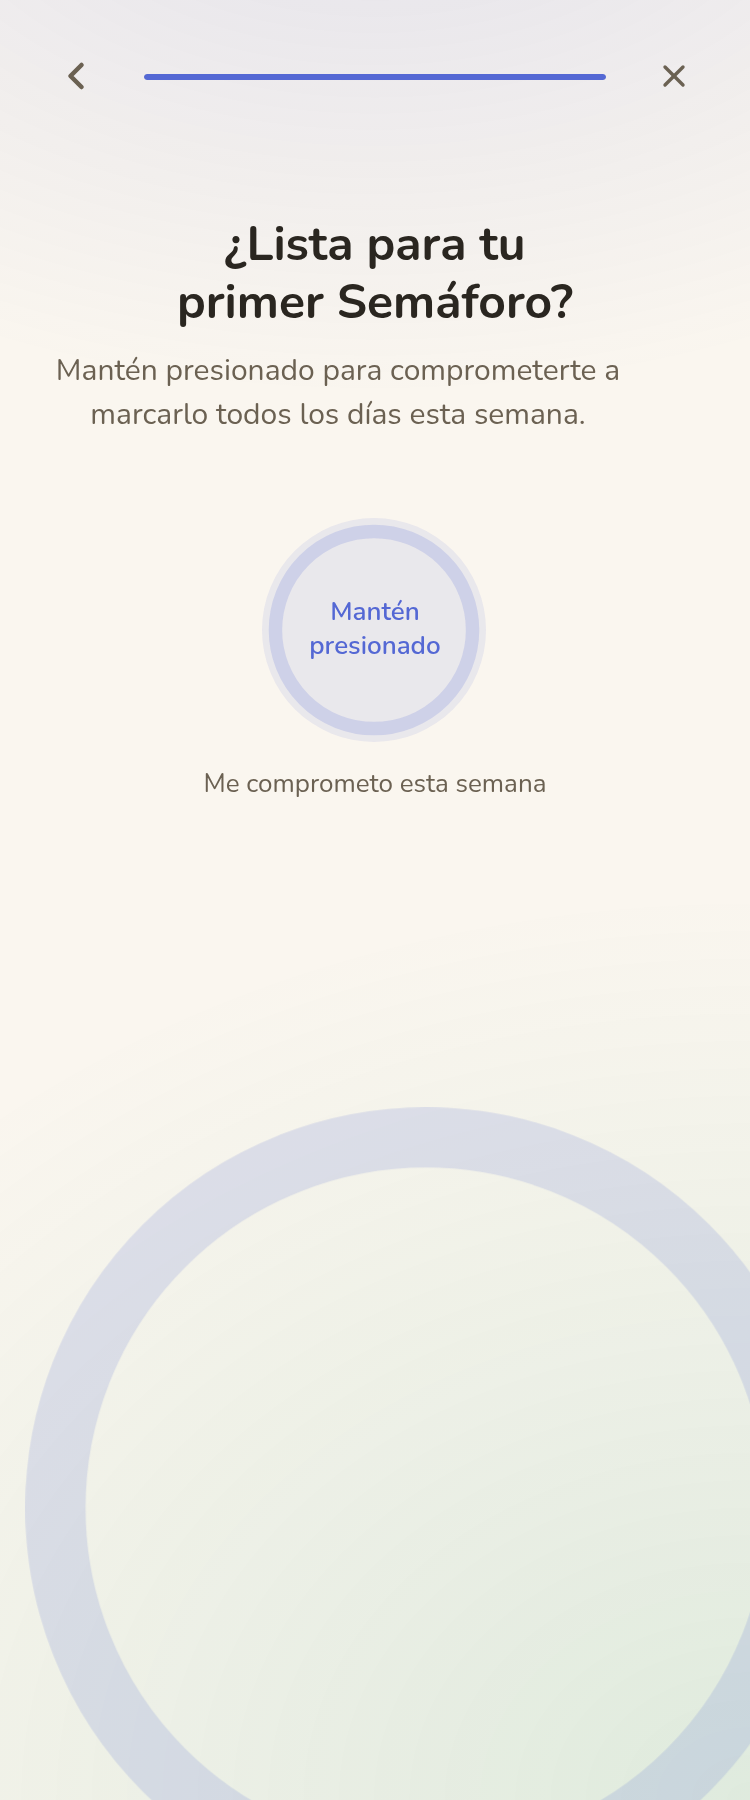
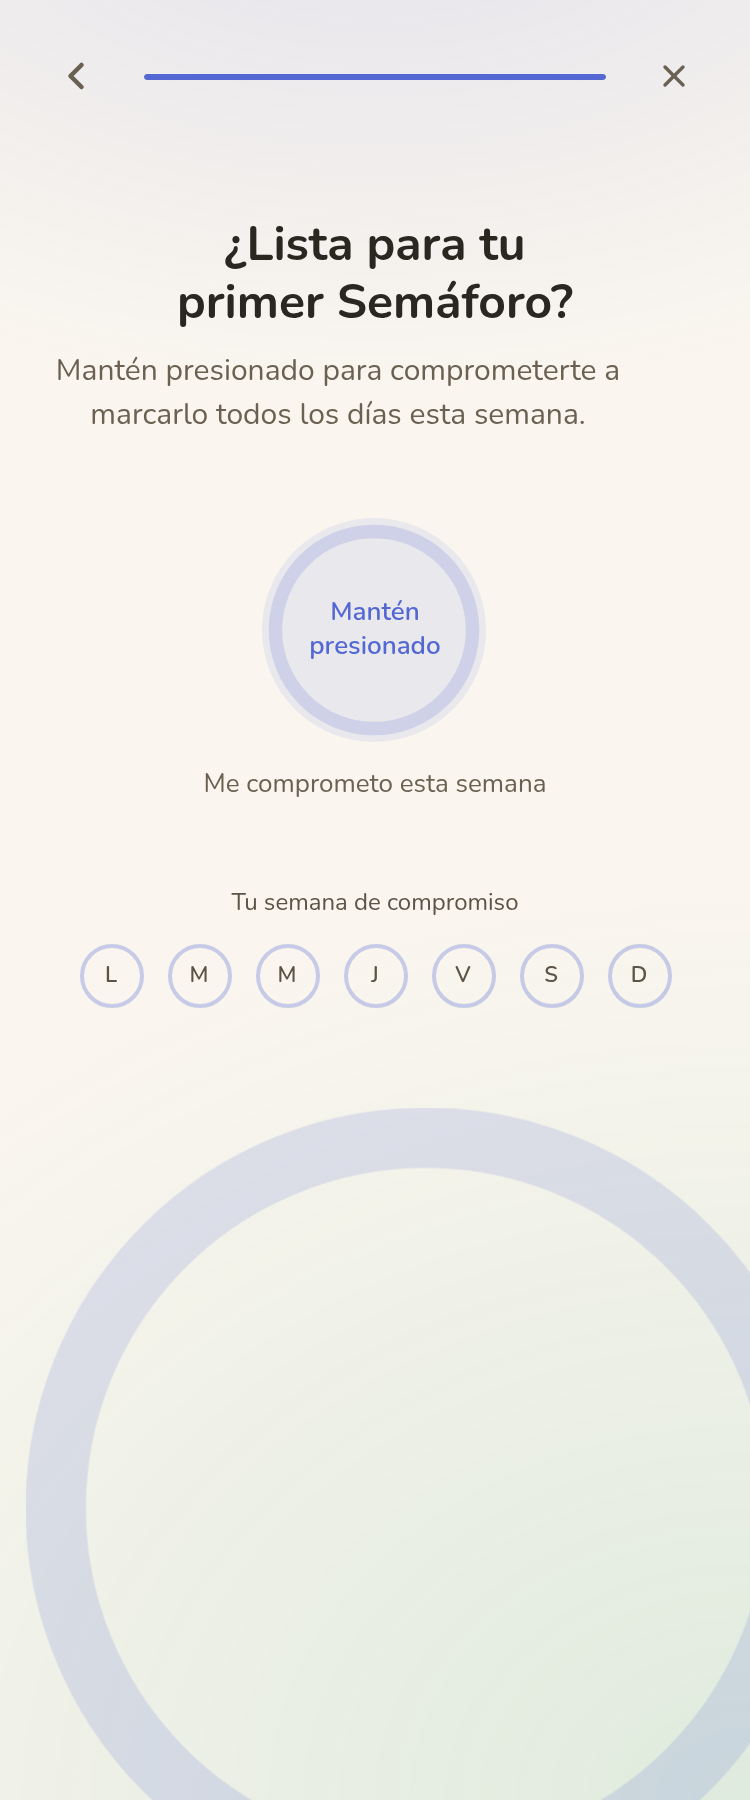
fix: reemplazar espacio vacío del onboarding por contenido funcional
La ronda 9 del revisor determinó explícitamente que el "espacio vacío" en
los pasos cortos es un defecto real y accionable (no un techo subjetivo):
4 rondas repositionando/agrandando el mismo elemento decorativo (centrado,
top-anchor, fondo agrandado+animado) no lo resolvieron porque la causa raíz
es falta de CONTENIDO, no de posición.

- <VistaSemaforo>: preview del mecanismo bautizado (día tranquilo/alerta,
  verde/naranja de FICHA-ARTE) bajo las opciones de los pasos 0/2/3/5 —
  anticipa el check-in diario en vez de solo llenar espacio.
- <SemanaPreview>: fila de 7 días (L-D) vacíos bajo el HoldButton del paso
  de compromiso, reforzando visualmente "todos los días esta semana" del
  propio copy.
- HoldButton: el aria-live anunciaba el progreso en cada frame de RAF
  (~60/seg durante 900ms), saturando un lector de pantalla real —
  redondeado a pasos de 20%.

Claude-Session: https://claude.ai/code/session_013BYtLeMwZuWh58hVzwvyD5

Changed region(s): [[0.3373, 0.4978, 0.8893, 0.56], [0.2147, 0.5289, 0.3067, 0.56], [0.092, 0.5289, 0.184, 0.56]]

diff --git a/components/funnel/ui.tsx b/components/funnel/ui.tsx
@@ -183,6 +183,67 @@ export function OptionChip({
   );
 }
 
+/* ── <VistaSemaforo> — preview FUNCIONAL del mecanismo bautizado (no decoración):
+   varias rondas del revisor confirmaron que el tercio inferior de las preguntas
+   cortas quedaba vacío pese a reposicionar/agrandar el fondo — la causa raíz
+   era falta de CONTENIDO, no de posición. Esta card enseña el check-in
+   tranquilo/alerta que la app usa a diario, dándole a esa franja una función
+   real (anticipar el mecanismo) en vez de solo llenar espacio. ── */
+export function VistaSemaforo() {
+  return (
+    <div className="mt-10 flex flex-col items-center gap-4 rounded-[var(--radius-card)] bg-[var(--surface)] p-5 shadow-[var(--shadow-1)]">
+      <p className="text-[13px] font-medium text-[var(--text-secondary)]">Así se ve tu Semáforo del Gasto</p>
+      <div className="flex items-center gap-8">
+        <span className="flex flex-col items-center gap-2">
+          <span
+            aria-hidden="true"
+            className="flex size-12 items-center justify-center rounded-full bg-[color-mix(in_oklab,var(--accent-2)_16%,transparent)] ring-2 ring-[var(--accent-2)]"
+          >
+            <span className="size-4 rounded-full bg-[var(--accent-2)]" />
+          </span>
+          <span className="text-[12px] text-[var(--text-tertiary)]">Día tranquilo</span>
+        </span>
+        <span className="flex flex-col items-center gap-2">
+          <span
+            aria-hidden="true"
+            className="flex size-12 items-center justify-center rounded-full bg-[color-mix(in_oklab,var(--accent-3)_16%,transparent)] ring-2 ring-[var(--accent-3)]"
+          >
+            <span className="size-4 rounded-full bg-[var(--accent-3)]" />
+          </span>
+          <span className="text-[12px] text-[var(--text-tertiary)]">Día de alerta</span>
+        </span>
+      </div>
+      <p className="text-center text-[12px] leading-snug text-[var(--text-tertiary)]">
+        Un toque al día — tú eliges cuál te describe hoy.
+      </p>
+    </div>
+  );
+}
+
+/* ── <SemanaPreview> — fila de 7 días (L-D) vacíos, previsualizando el
+   compromiso ("marcarlo todos los días esta semana") con contenido real en
+   vez de dejar el paso de compromiso con un vacío grande bajo el HoldButton. ── */
+export function SemanaPreview() {
+  const dias = ['L', 'M', 'M', 'J', 'V', 'S', 'D'];
+  return (
+    <div className="flex flex-col items-center gap-3">
+      <p className="text-[12px] font-medium text-[var(--text-tertiary)]">Tu semana de compromiso</p>
+      <div className="flex items-center gap-3">
+        {dias.map((dia, i) => (
+          <span key={i} className="flex flex-col items-center gap-1.5">
+            <span
+              aria-hidden="true"
+              className="flex size-8 items-center justify-center rounded-full border-2 border-[color-mix(in_oklab,var(--accent)_30%,transparent)] text-[11px] font-semibold text-[var(--text-tertiary)]"
+            >
+              {dia}
+            </span>
+          </span>
+        ))}
+      </div>
+    </div>
+  );
+}
+
 /* ── <FunnelFondo> — mesh + anillo decorativo compartido por TODAS las pantallas
    del funnel (onboarding vía FunnelScreen, y paywall directo — antes duplicado
    en los dos archivos, con el mismo bug arreglándose dos veces). Un solo lugar
@@ -431,7 +492,9 @@ export function HoldButton({ onCommit, label }: { onCommit: () => void; label: s
         </span>
       </button>
       <p id="hold-button-progreso" aria-live="polite" className="text-[13px] text-[var(--text-secondary)]">
-        {progreso > 0 && progreso < 100 ? `Sosteniendo… ${Math.round(progreso)}%` : label}
+        {/* Redondeado a pasos de 20% — a 60fps el aria-live actualizaría ~54
+            veces en 900ms, saturando un lector de pantalla real. */}
+        {progreso > 0 && progreso < 100 ? `Sosteniendo… ${Math.round(progreso / 20) * 20}%` : label}
       </p>
     </div>
   );

diff --git a/app/onboarding/page.tsx b/app/onboarding/page.tsx
@@ -9,7 +9,7 @@ import { useRouter } from 'next/navigation';
 import { useState, type ReactNode } from 'react';
 import { motion, useReducedMotion } from 'motion/react';
 import { Check, Lightbulb, HeartHandshake, Sprout } from 'lucide-react';
-import { ConfirmSalir, FunnelButton, FunnelScreen, HoldButton, OptionChip } from '@/components/funnel/ui';
+import { ConfirmSalir, FunnelButton, FunnelScreen, HoldButton, OptionChip, SemanaPreview, VistaSemaforo } from '@/components/funnel/ui';
 import { OPCIONES_DOLOR, OPCIONES_INTENTO, OPCIONES_META, OPCIONES_MOMENTO, guardarRespuestas, type RespuestasOnboarding } from '@/lib/onboarding';
 
 const TOTAL_PASOS = 6; // 0-indexado: 6 pasos entre el inicio (8%) y el compromiso (100%)
@@ -76,6 +76,7 @@ export default function Onboarding() {
             />
           ))}
         </div>
+        <VistaSemaforo />
       </FunnelScreen>
     );
   } else if (paso === 1) {
@@ -121,6 +122,7 @@ export default function Onboarding() {
             />
           ))}
         </div>
+        <VistaSemaforo />
       </FunnelScreen>
     );
   } else if (paso === 3) {
@@ -143,6 +145,7 @@ export default function Onboarding() {
             />
           ))}
         </div>
+        <VistaSemaforo />
       </FunnelScreen>
     );
   } else if (paso === 4) {
@@ -193,6 +196,7 @@ export default function Onboarding() {
             />
           ))}
         </div>
+        <VistaSemaforo />
       </FunnelScreen>
     );
   } else {
@@ -231,6 +235,7 @@ export default function Onboarding() {
                 </p>
               </div>
               <HoldButton onCommit={comprometerse} label="Me comprometo esta semana" />
+              <SemanaPreview />
             </>
           )}
         </div>

diff --git a/docs/revisiones/onboarding-veredicto.md b/docs/revisiones/onboarding-veredicto.md
@@ -1,14 +1,14 @@
 # VEREDICTO revisor-visual — onboarding
 Fecha: 2026-09-17 00:00
-Screenshot: docs/revisiones/onboarding-375.png (+ onboarding-paso2-375.png, onboarding-paso6-375.png, onboarding-celebracion-375.png)
-Usabilidad: 27/40
+Screenshot: docs/revisiones/onboarding-375.png
+Usabilidad: 28/40
 Craft: 14/20
 Copy (si vende): N-A
 Fidelidad (si hubo referencia): N-A
 Veredicto: NO LISTA
 Top defectos:
-1. [Pasos 0/2/3/5, pregunta] Vacío grande en la mitad inferior del viewport (título+opciones ocupan ~55%, el resto es fondo liso + arco decorativo apenas visible en la esquina) — se ve pantalla sin terminar → components/funnel/ui.tsx L254-266 (FunnelScreen, contenedor flex-1 sin contenido que lo llene) + L202-230 (FunnelFondo, decoración muy tenue y solo en la esquina). Fix: rellenar con contenido real (mini-contexto, ilustración) o recentrar verticalmente el bloque cuando el contenido es corto.
-2. [HoldButton, paso 6] aria-label={label} solo dice el texto del compromiso, nunca que hay que MANTENER presionado 900ms, y no hay aria-live anunciando el progreso — un usuario de lector de pantalla que presiona Enter una vez no completa el paso y no recibe ningún aviso de qué pasó ni qué hacer → components/funnel/ui.tsx L396-419. Fix: agregar aria-live="polite" con el % de avance y mencionar "mantén presionado" en el aria-label o en un texto asociado (aria-describedby).
-3. [Paso 6, antes de sostener] El título "¿Lista para tu primer Semáforo?" queda flotando a mitad de pantalla con un vacío de ~40% arriba y otro vacío grande abajo antes del anillo decorativo — composición desbalanceada → app/onboarding/page.tsx L202 (div flex-1 items-center justify-center). Fix: anclar el bloque arriba como los demás pasos o llenar el tercio superior con un resumen visual de las respuestas ya dadas.
-4. [FunnelHeader, barra de progreso] El div de progreso (components/funnel/ui.tsx L46-53) no tiene role="progressbar" ni aria-valuenow/min/max — un usuario de lector de pantalla no tiene ninguna forma de saber en qué paso del onboarding va. Fix: agregar los atributos ARIA de progressbar con el % actual.
-5. [lib/onboarding.ts L87-93] guardarRespuestas() traga en silencio el error si localStorage falla (modo privado/cupo lleno) — el usuario llega al paywall sin personalización y sin ningún aviso de que algo no se guardó. Fix: mostrar un mensaje breve ("no pudimos guardar tus respuestas en este navegador") en vez de solo comentar el catch.
+1. [Paso 0 y Paso 2, tercio inferior de la pantalla — FunnelFondo en components/funnel/ui.tsx L190-240] Entre el último chip y el anillo decorativo fijo queda una franja de ~130-160px sin función (ni texto, ni dato, apenas un leve degradé), y luego un anillo de 420px sin etiqueta que domina casi la mitad del viewport. Es el MISMO defecto de rondas anteriores reubicado, no resuelto: la causa raíz es densidad de contenido insuficiente para 4 chips cortos, no la posición del bloque — por eso centrar, top-anchor y agrandar el fondo (rondas previas) no lo eliminaron, solo lo movieron. Fix distinto a lo intentado: reemplazar la franja vacía por contenido FUNCIONAL (ej. una mini-previsualización del "Semáforo" reaccionando a la opción, o un dato/testimonio breve ligado a la pregunta), no seguir ajustando el mismo elemento decorativo.
+2. [Paso 6 "compromiso" — app/onboarding/page.tsx L202, div `flex flex-col items-center gap-10 pt-4`] Al volver el bloque título+HoldButton a top-anchored sin `flex-1`/`justify-center` en el resto del contenedor, queda un vacío muerto de ~300px entre "Me comprometo esta semana" y el anillo de fondo — contradice la propia regla del sistema ("nunca dejar vacío muerto abajo"). Fix concreto y no probado aún: agregar bajo el HoldButton una previsualización real de los 7 días de la semana de compromiso (7 círculos L-D vacíos que se van marcando), que llena el espacio con información útil en vez de reposicionar el mismo bloque una vez más.
+3. [components/funnel/ui.tsx L433, `<p id="hold-button-progreso" aria-live="polite">` dentro de HoldButton] Fuera de reduced-motion, el texto anunciado se actualiza en cada frame de requestAnimationFrame (~60/seg) durante los 900ms del hold — una región aria-live tan frecuente puede saturar o leerse de forma inconsistente en un lector de pantalla real. Fix: throttlear el texto anunciado (cada ~200ms o en saltos de 20%) manteniendo el SVG fluido para usuarios videntes.
+4. [Heurística 7, todo el flujo de preguntas — OPCIONES_* renderizadas vía OptionChip en app/onboarding/page.tsx] No hay ningún atajo de teclado más allá de Tab+Enter genérico; las opciones ya se numeran visualmente por posición (indice) pero no aceptan las teclas 1-4 para seleccionar directo. Fix: listener de teclado que mapee 1-4 a `guardarYAvanzar` con la opción correspondiente.
+5. [Craft — profundidad, FunnelFondo aplicado igual en pasos de 4 chips que en el paso de celebración] El anillo decorativo de 420px tiene el mismo tamaño/opacidad sin importar cuánto contenido real haya en el paso, compitiendo visualmente con las opciones en vez de acompañarlas. Fix: escalar su tamaño/opacidad según el paso (más discreto en preguntas con 4 chips, protagonista solo en compromiso/celebración donde sí tiene rol narrativo).
